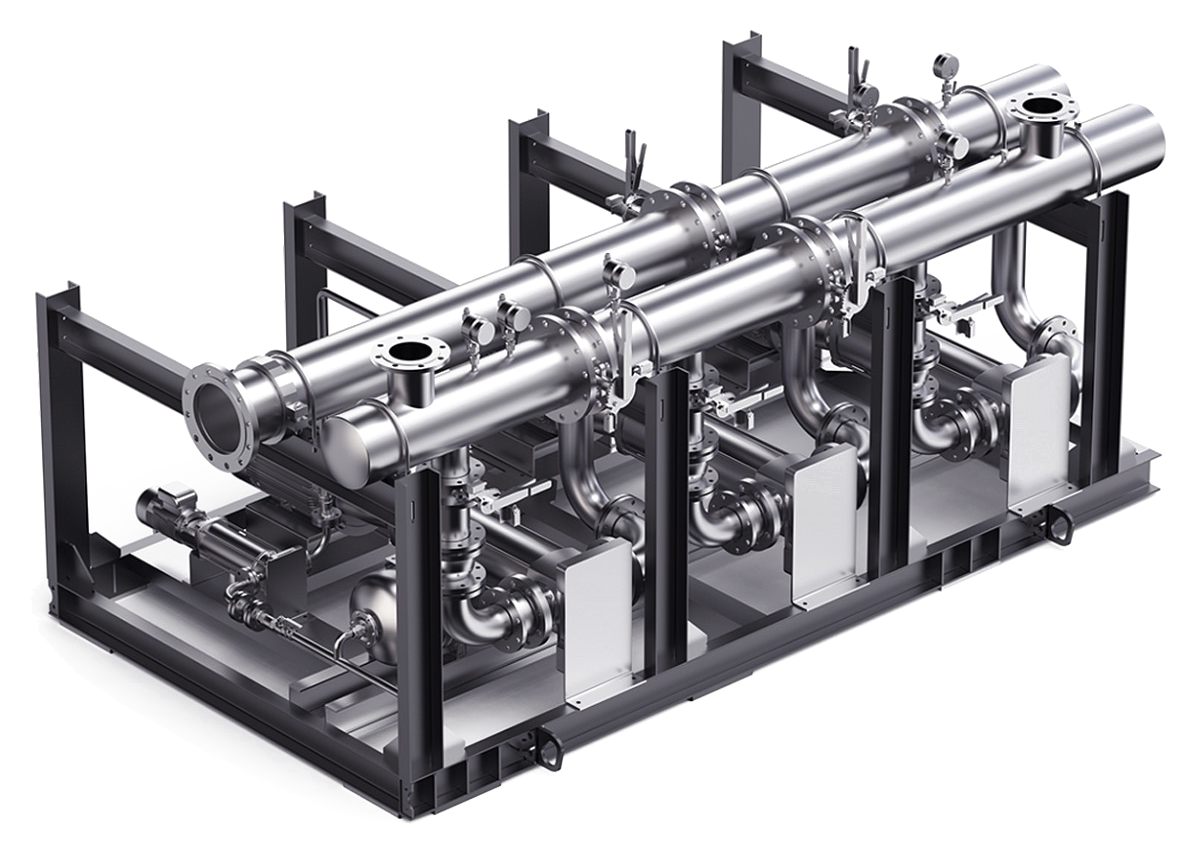
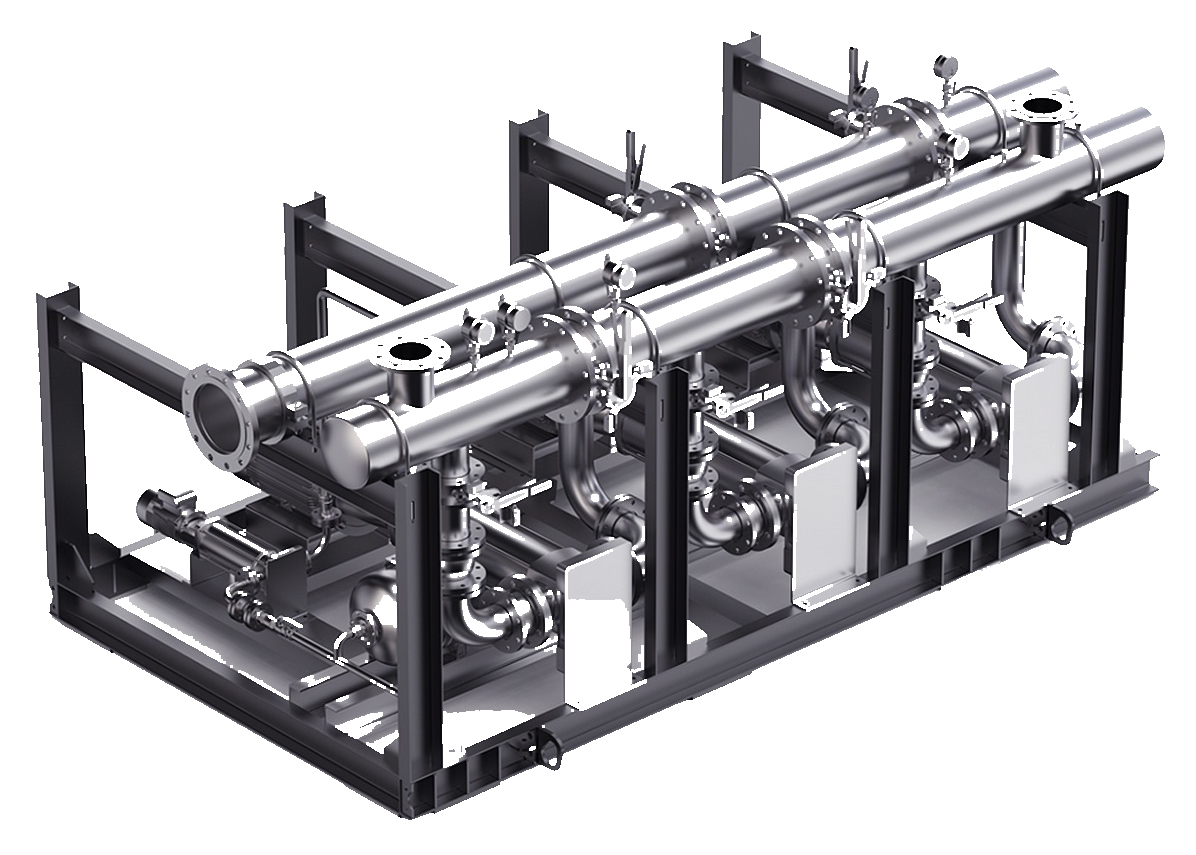
fix(products): clean 3 'falsely-clean' PNGs + add backlight to ИТП module pages
3 PNGs that I previously marked 'clean' (heating-cooling, pressure-boost,
special) actually had baked-in floor reflection in middle-bottom bands.
My initial sweep only sampled 8 corner+edge points where alpha was 0;
the floor pixels live in bands 3-4 at α 48-200 (up to 24% of band 4 on
heating-cooling). User flagged the puddle on /products/pumps overview.

Same v2 pipeline: threshold 200 + 1px erosion + binary alpha snap.
Verified all 3 visually — product silhouettes intact, floor gone.

Also: ИТП module detail pages (/products/heating-unit/[slug]) had no
accent backlight — custom Hero (server component) was missing the
radial-gradient div + drop-shadow that ProductHero ships. Now matches:
- absolute inset-0 radial: 72% 50%, alpha 0.18 (heat or fire accent)
- drop-shadow on image container: 0 30px 40px alpha 0.45

Each of 8 module pages now reads with pedestal-feel like top-level
product pages.

diff --git a/src/app/products/heating-unit/[slug]/page.tsx b/src/app/products/heating-unit/[slug]/page.tsx
@@ -112,7 +112,8 @@ export default async function HeatingModulePage({ params }: RouteParams) {
           пропорции с ProductHero (текст col-6 / изображение col-6,
           mobile aspect-[4/3] под текстом). Кастомный hero оставлен
           (не reuse ProductHero), потому что мы рендерим module-specific
-          breadcrumbs + кнопку «← К каталогу модулей». */}
+          breadcrumbs + кнопку «← К каталогу модулей». Подсветка/тень
+          сделаны статически: server-component, без motion. */}
       <section
         id="product-hero"
         className="relative overflow-hidden bg-[var(--color-primary)]"
@@ -121,9 +122,21 @@ export default async function HeatingModulePage({ params }: RouteParams) {
             accent === "heat" ? "var(--accent-heat)" : "var(--accent-fire)",
         }}
       >
+        {/* Accent radial backlight — то же что в ProductHero (alpha 0.18,
+            72% 50%). Без него детальные ИТП-модули рендерились на чистом
+            чёрном без orange-подсветки за продуктом. */}
         <div
           aria-hidden="true"
-          className="absolute inset-0 bg-grid-hairline bg-grid opacity-30"
+          className="absolute inset-0 z-0"
+          style={{
+            background: `radial-gradient(circle at 72% 50%, ${
+              accent === "heat" ? "rgba(232,135,59,0.18)" : "rgba(215,38,56,0.18)"
+            } 0%, rgba(10,10,10,0) 55%)`,
+          }}
+        />
+        <div
+          aria-hidden="true"
+          className="absolute inset-0 z-0 bg-grid-hairline bg-grid opacity-30"
         />
         <div className="relative z-20 mx-auto w-full max-w-[1440px] px-6 pb-10 pt-24 md:px-12 md:pb-14 md:pt-28">
           <Breadcrumbs
@@ -172,9 +185,18 @@ export default async function HeatingModulePage({ params }: RouteParams) {
               </div>
             </div>
 
-            {/* IMAGE — col-6 на md+, aspect-4/3 на mobile под текстом */}
+            {/* IMAGE — col-6 на md+, aspect-4/3 на mobile под текстом.
+                Drop-shadow тоном accent — как в ProductHero, придаёт
+                продукту объём и pedestal-feel. */}
             <div className="md:col-span-6">
-              <div className="relative aspect-[4/3] w-full md:aspect-auto md:h-[520px]">
+              <div
+                className="relative aspect-[4/3] w-full md:aspect-auto md:h-[520px]"
+                style={{
+                  filter: `drop-shadow(0 30px 40px ${
+                    accent === "heat" ? "rgba(232,135,59,0.45)" : "rgba(215,38,56,0.45)"
+                  })`,
+                }}
+              >
                 <Image
                   src={m.image.src}
                   alt={m.image.alt}
